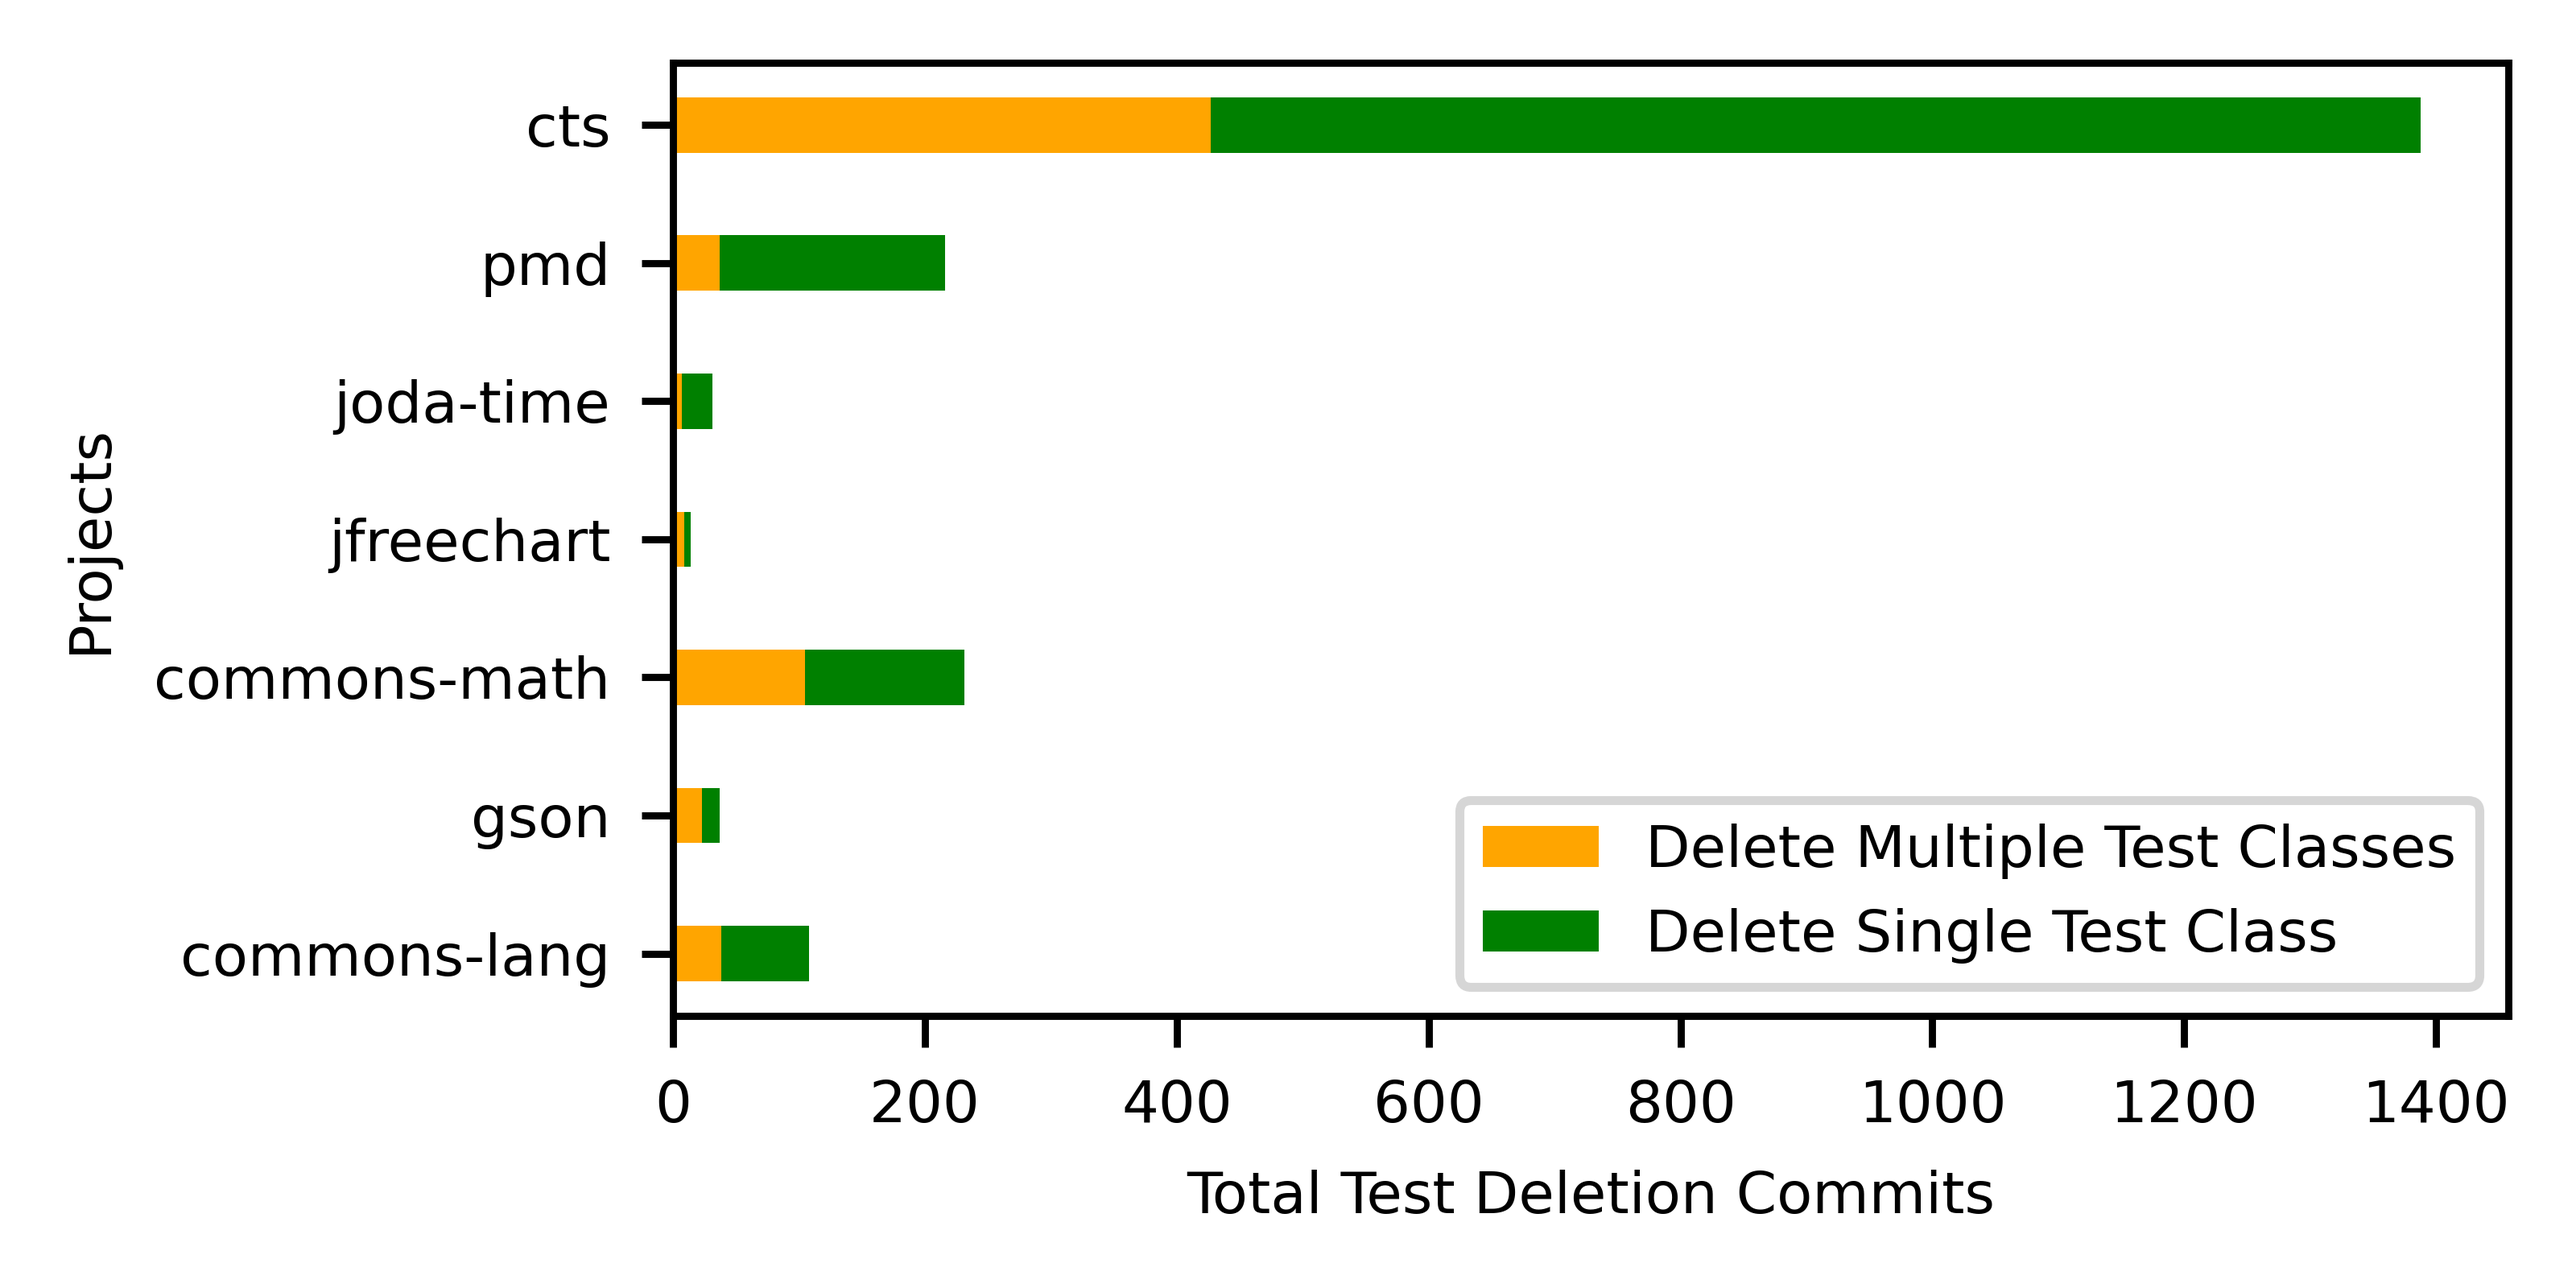
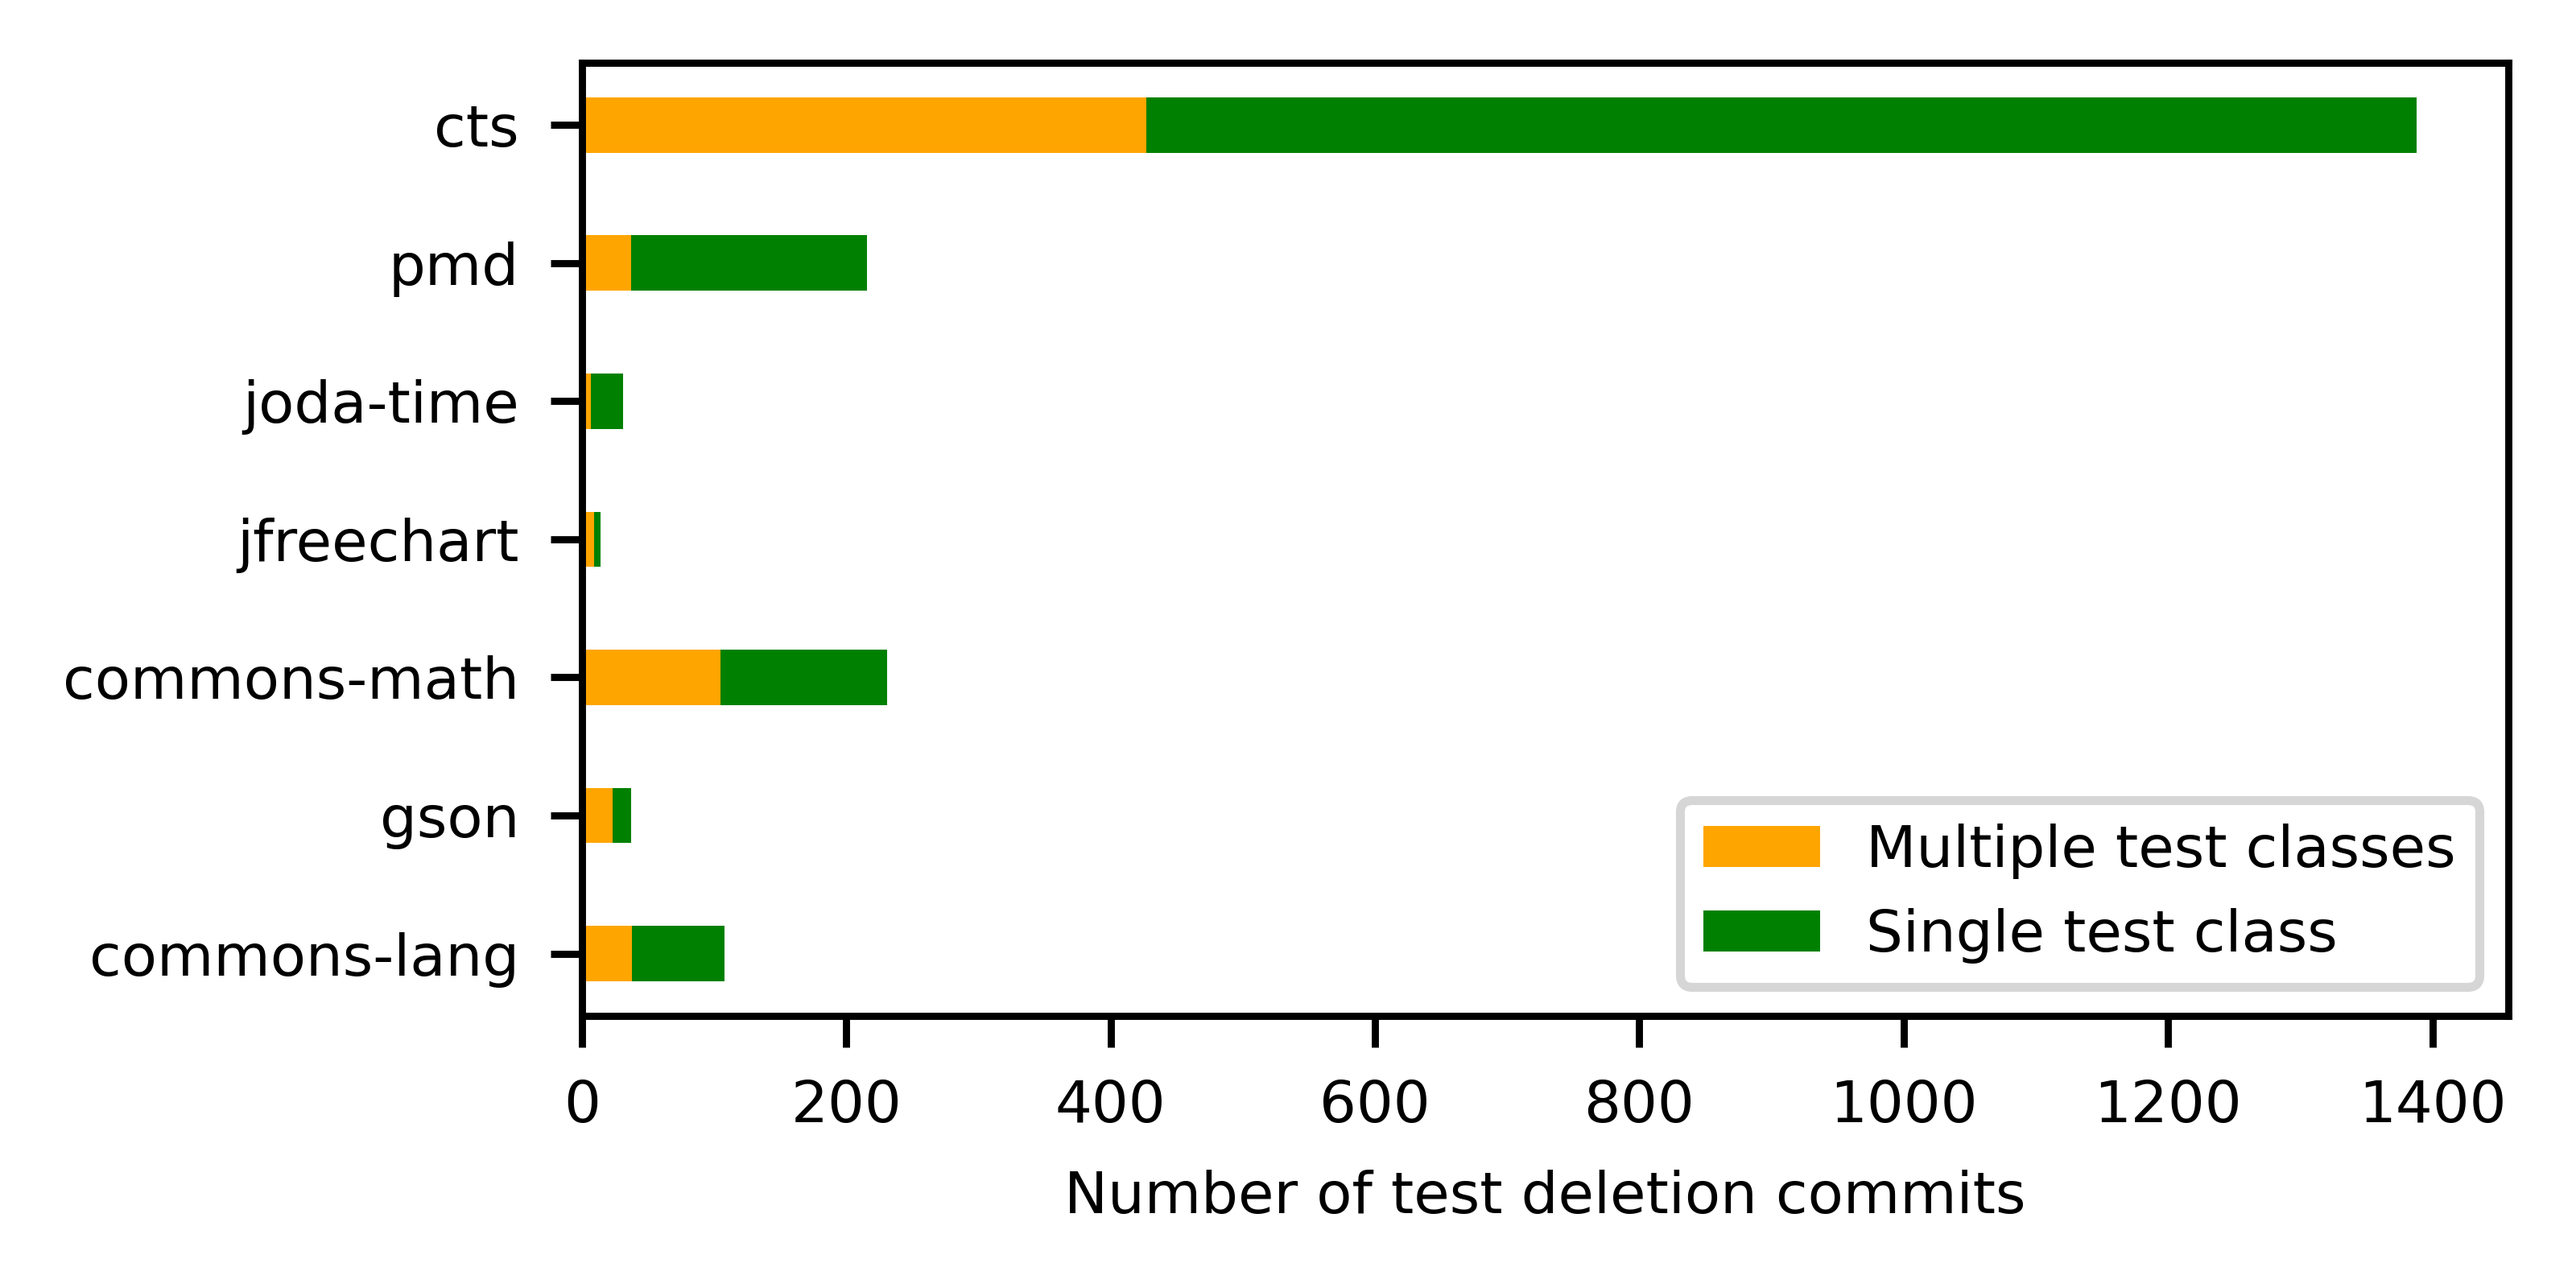
update bargraphs

diff --git a/rq2/graph1.py b/rq2/graph1.py
@@ -104,7 +104,7 @@ df_rq21 = {
         "joda-time",
         "pmd",
     ],
-    "abc": [546, 197, 2090, 98, 191, 89],
+    "abc": [546, 197, 2090, 98, 191, 897],
     "~abc": [323, 63, 1226, 53, 469, 1173],
 }
 fig, ax = plt.subplots(figsize=(4, 2))
@@ -118,9 +118,9 @@ df_rq21.plot(
     ax=ax
     # title="Stacked Bar Graph by dataframe"
 )
-plt.xlabel("Total Deleted Tests")
-plt.ylabel("Projects")
-ax.legend(["Deleted with API methods", "Deleted Without API Methods"])
+plt.xlabel("Number of deleted tests")
+plt.ylabel("")
+ax.legend(["With production code", "Without production code"])
 
 
 # function to add value labels

diff --git a/rq2/graph4.py b/rq2/graph4.py
@@ -41,9 +41,9 @@ df.plot(
     ax=ax
     # title="Stacked Bar Graph by dataframe"
 )
-plt.xlabel("Total Test Deletion Commits")
-plt.ylabel("Projects")
-ax.legend(["Delete Multiple Test Classes", "Delete Single Test Class"])
+plt.xlabel("Number of test deletion commits")
+plt.ylabel("")
+ax.legend(["Multiple test classes", "Single test class"])
 
 
 # function to add value labels

diff --git a/rq2/graph2.py b/rq2/graph2.py
@@ -40,9 +40,9 @@ df.plot(
     ax=ax
     # title="Stacked Bar Graph by dataframe"
 )
-plt.xlabel("Total Deleted Tests")
-plt.ylabel("Projects")
-ax.legend(["Deleted with Test Class", "Deleted without Test Class"])
+plt.xlabel("Number of deleted tests")
+plt.ylabel("")
+ax.legend(["With test class", "Without test class"])
 
 
 # function to add value labels

diff --git a/rq2/graph3.py b/rq2/graph3.py
@@ -41,9 +41,9 @@ df.plot(
     ax=ax
     # title="Stacked Bar Graph by dataframe"
 )
-plt.xlabel("Total Test Deletion Commits")
-plt.ylabel("Projects")
-ax.legend(["Delete Multiple Test", "Delete Single Test"])
+plt.xlabel("Number of test deletion commits")
+plt.ylabel("")
+ax.legend(["Mulitple tests", "Single test"])
 
 
 # function to add value labels
